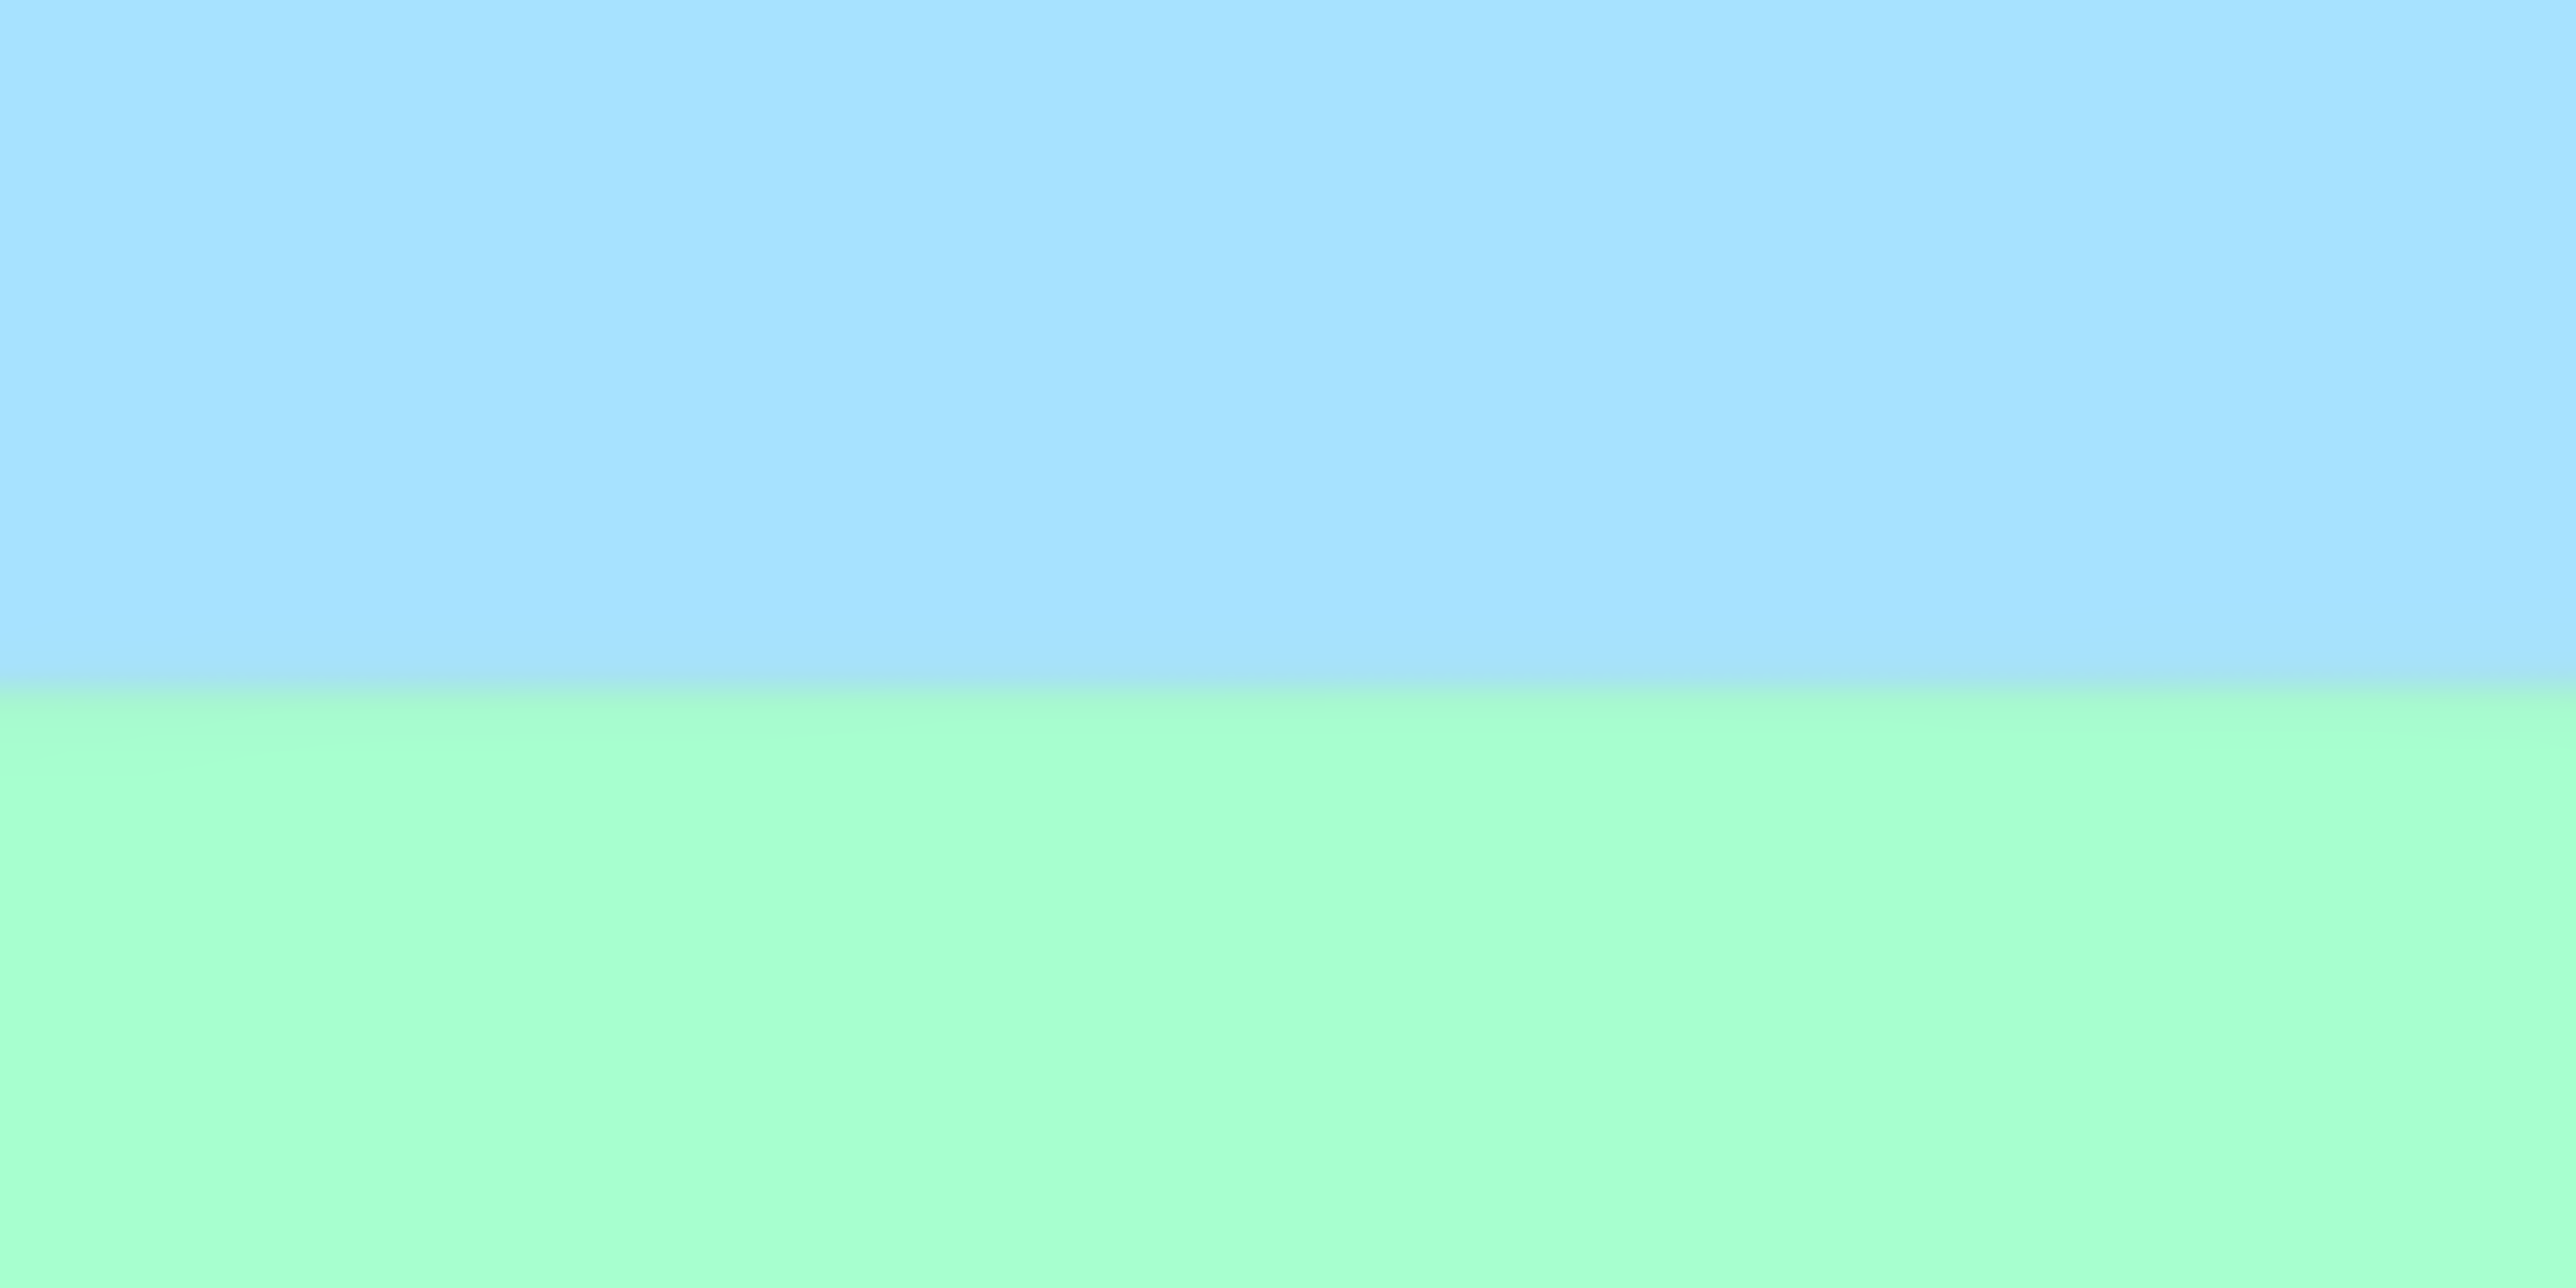
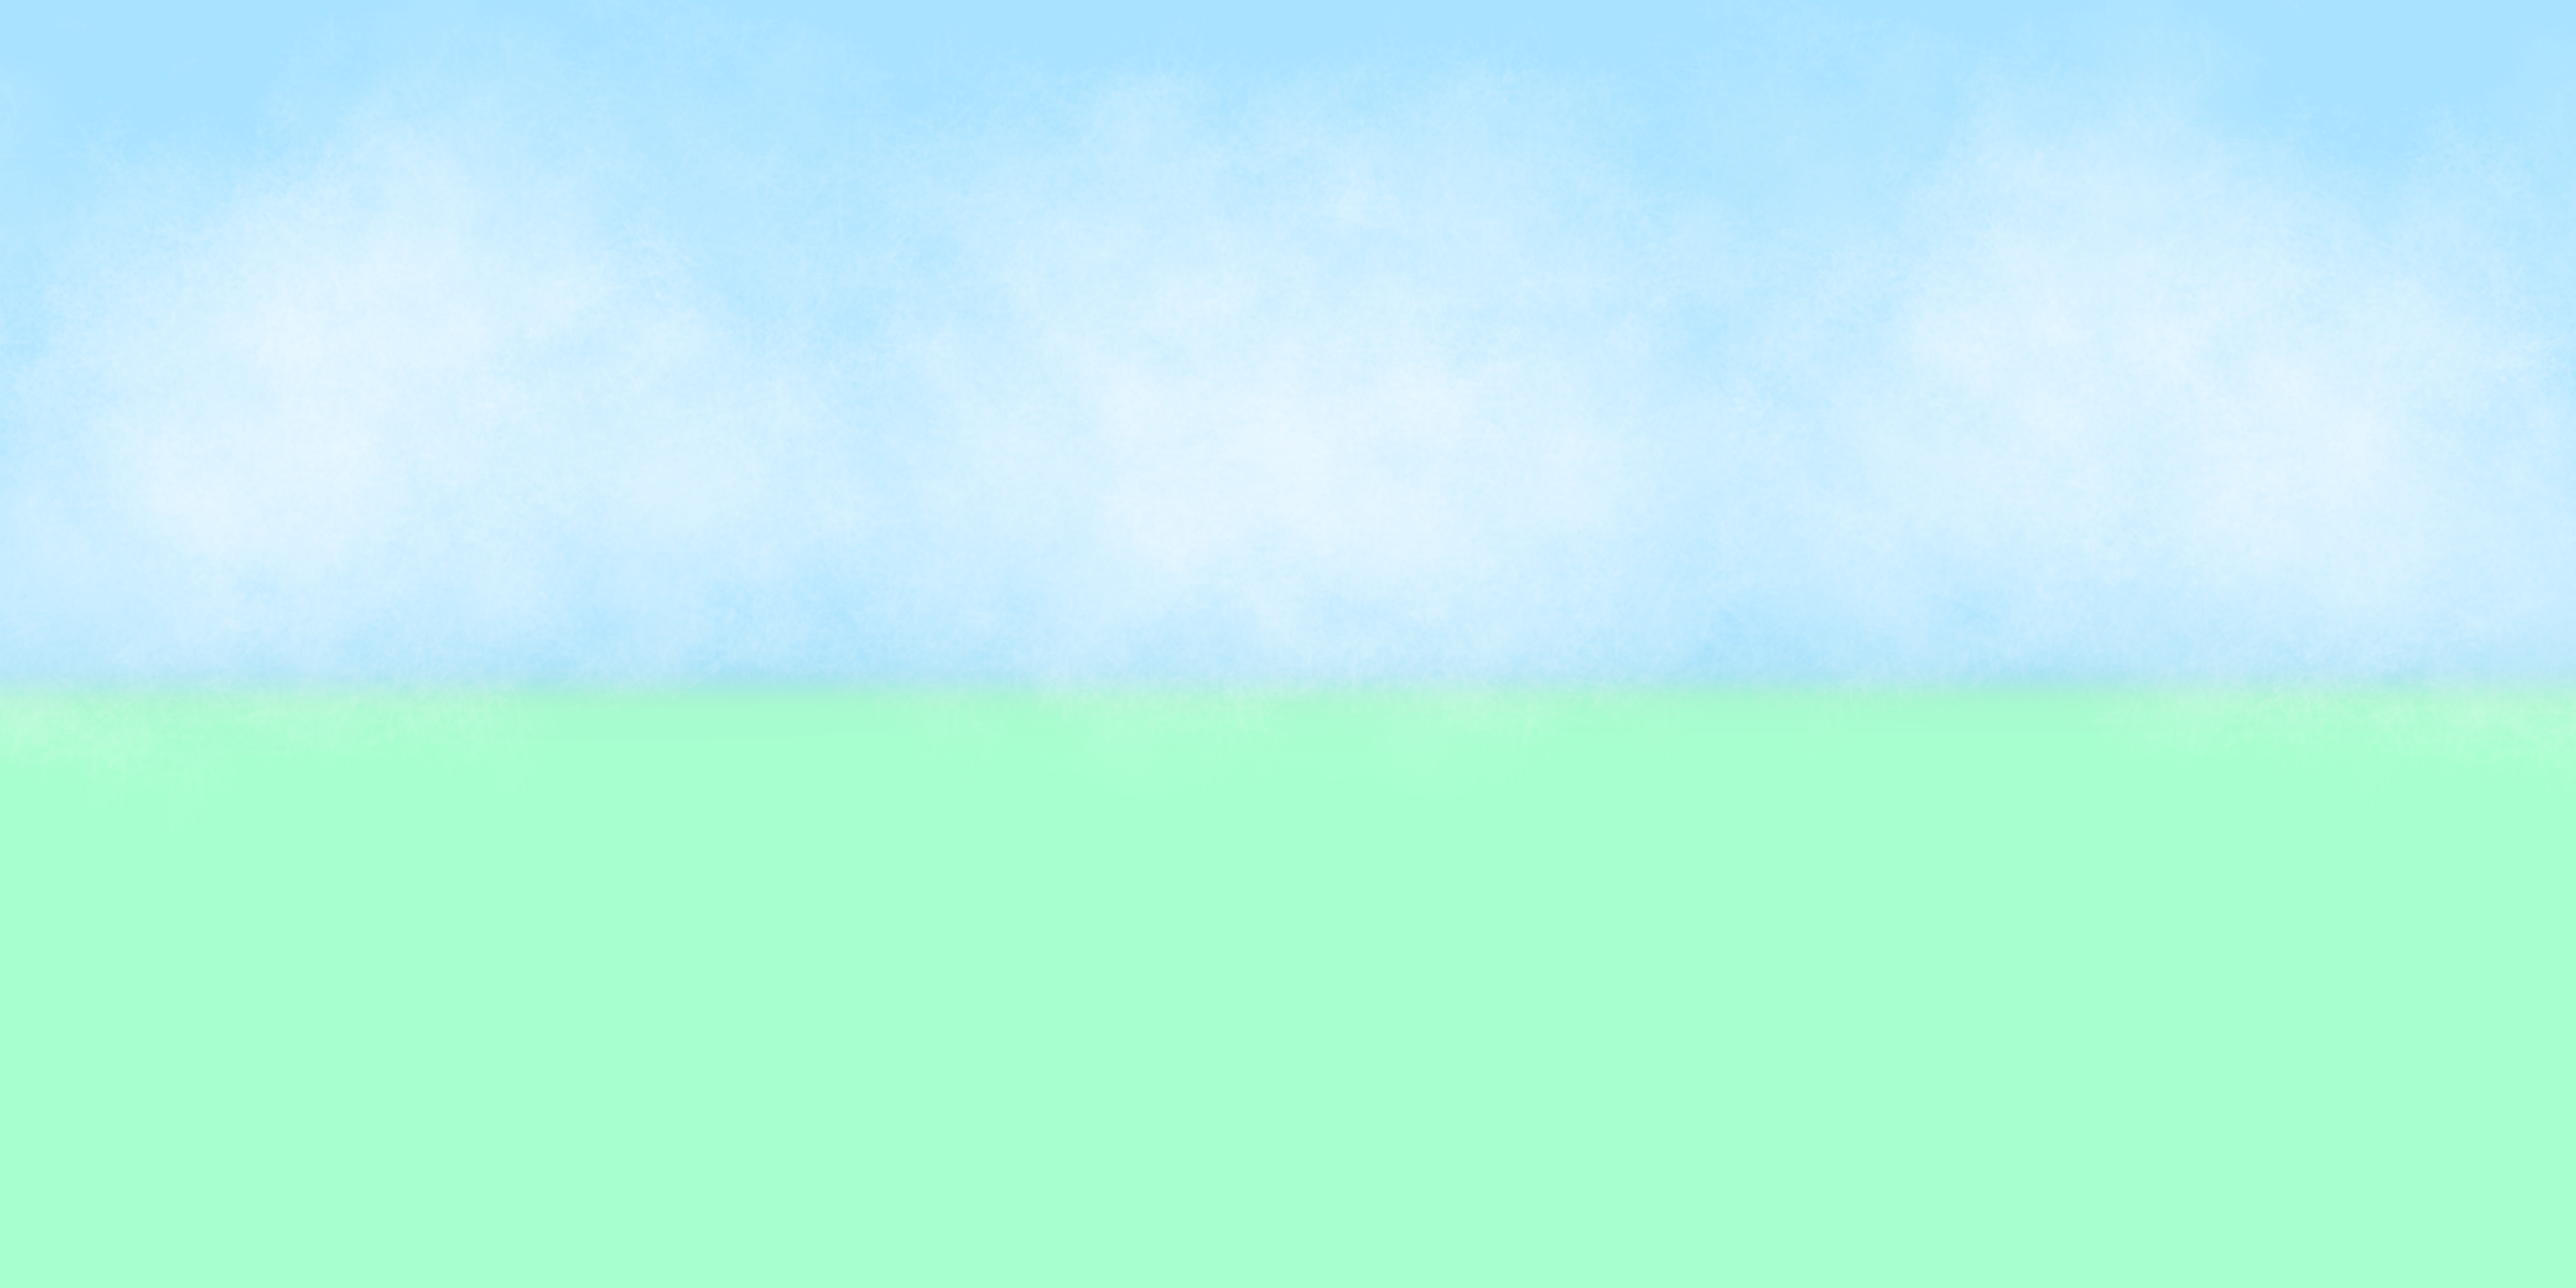
天球の画像直し中&Space連打で複数回音が鳴るの直した

diff --git a/3DDirectX1/scene/SelectScene.cpp b/3DDirectX1/scene/SelectScene.cpp
@@ -108,15 +108,17 @@ void SelectScene::Update()
 
 	}
 	else if (SAFlag == 0) {
-		if (Input::GetInstance()->TriggerKey(DIK_SPACE)) {
-			if (stageNum == 0 || stageNum == 1||stageNum==2) {
-				SCangeFlag = true;
-				audio->SEPlayWave(sound2);
-			}
-			else {
-				audio->SEPlayWave(sound1);
-			}
+		if (SCangeFlag == false) {
+			if (Input::GetInstance()->TriggerKey(DIK_SPACE)) {
+				if (stageNum == 0 || stageNum == 1 || stageNum == 2) {
+					SCangeFlag = true;
+					audio->SEPlayWave(sound2);
+				}
+				else {
+					audio->SEPlayWave(sound1);
+				}
 
+			}
 		}
 	}
 }
@@ -138,9 +140,9 @@ void SelectScene::DrawFront()
 	Sprite::PreDraw(dxCommon->GetCmdList());
 	SelectUI->Draw();
 	if (SAFlag == 0) {
-	/*	if (stageNum == 2 ) {
-			DebugText::GetInstance()->Printf(250, 400, 6.0f, { 0,0,0,1 }, "MADA,ASOBENAIYO");
-		}*/
+		/*	if (stageNum == 2 ) {
+				DebugText::GetInstance()->Printf(250, 400, 6.0f, { 0,0,0,1 }, "MADA,ASOBENAIYO");
+			}*/
 		DebugText::GetInstance()->Printf(600, 300, 6.0f, { 0,0,0,1 }, "%d", stageNum);
 		if (stageNum == 0) {
 			DebugText::GetInstance()->Printf(400, 400, 6.0f, { 0,0,0,1 }, "Tutorial");

diff --git a/3DDirectX1/scene/TitleScene.cpp b/3DDirectX1/scene/TitleScene.cpp
@@ -88,10 +88,12 @@ void TitleScene::Update()
 		}
 	}
 	if (SceneNum == 0) {
-		if (Input::GetInstance()->TriggerKey(DIK_SPACE)) {
-			SCangeFlag = true;
-			audio->SEPlayWave(sound2);
-			audio->StopWave();
+		if (SCangeFlag == false) {
+			if (Input::GetInstance()->TriggerKey(DIK_SPACE)) {
+				SCangeFlag = true;
+				audio->SEPlayWave(sound2);
+				audio->StopWave();
+			}
 		}
 		TSSprite->SetSize({ 300,110 });
 		TS2Sprite->SetSize({ 180,50 });
